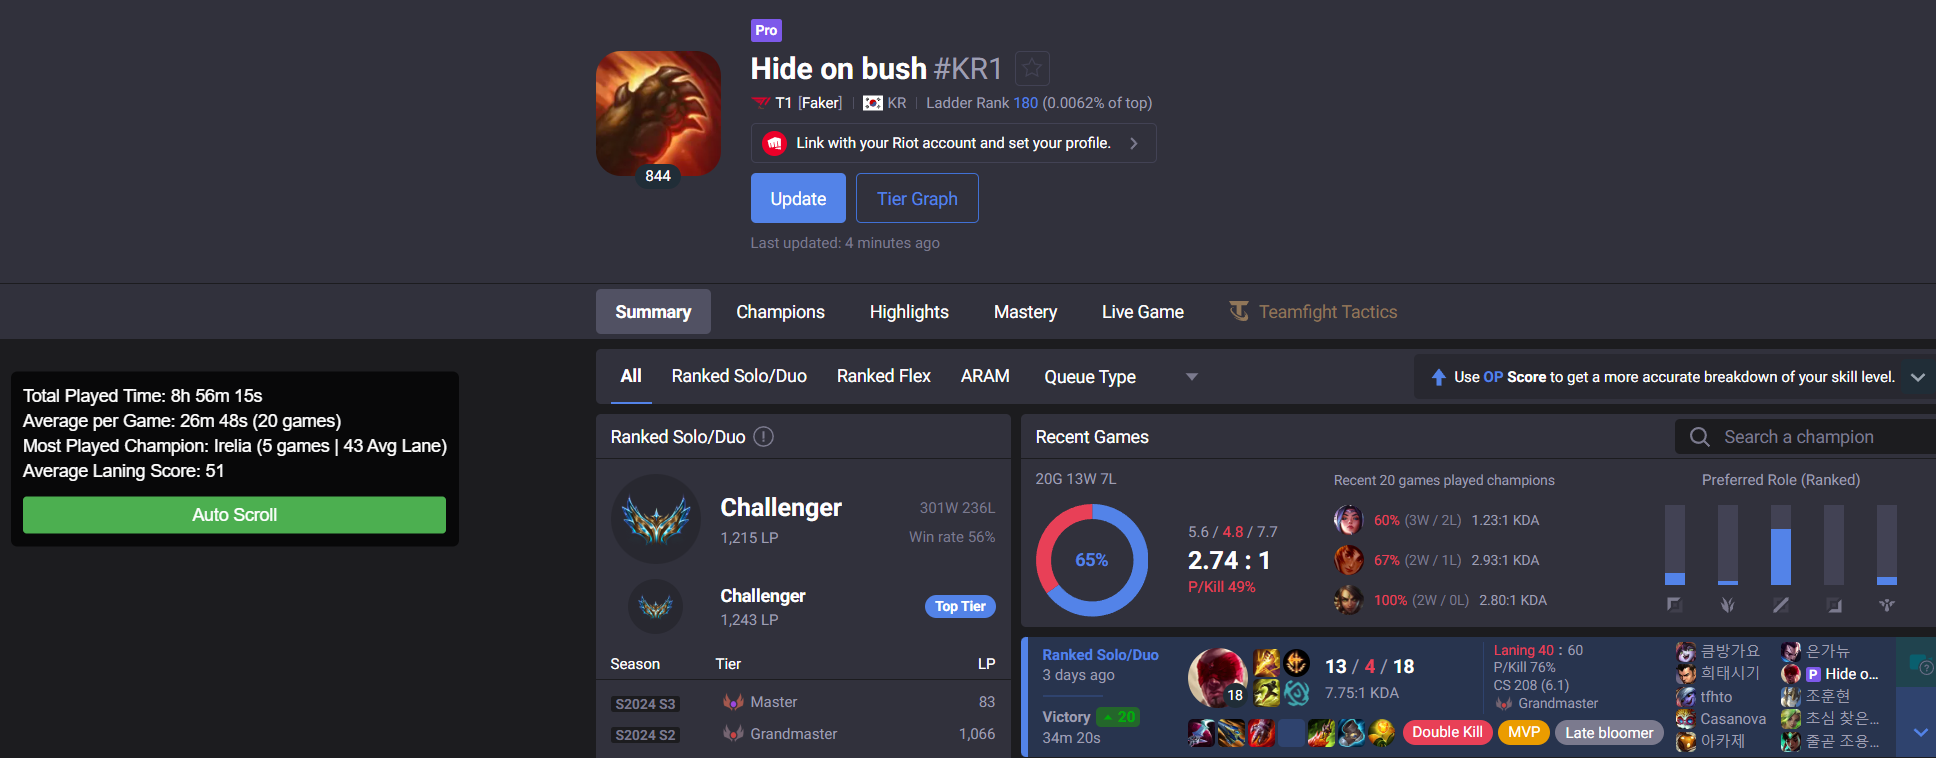
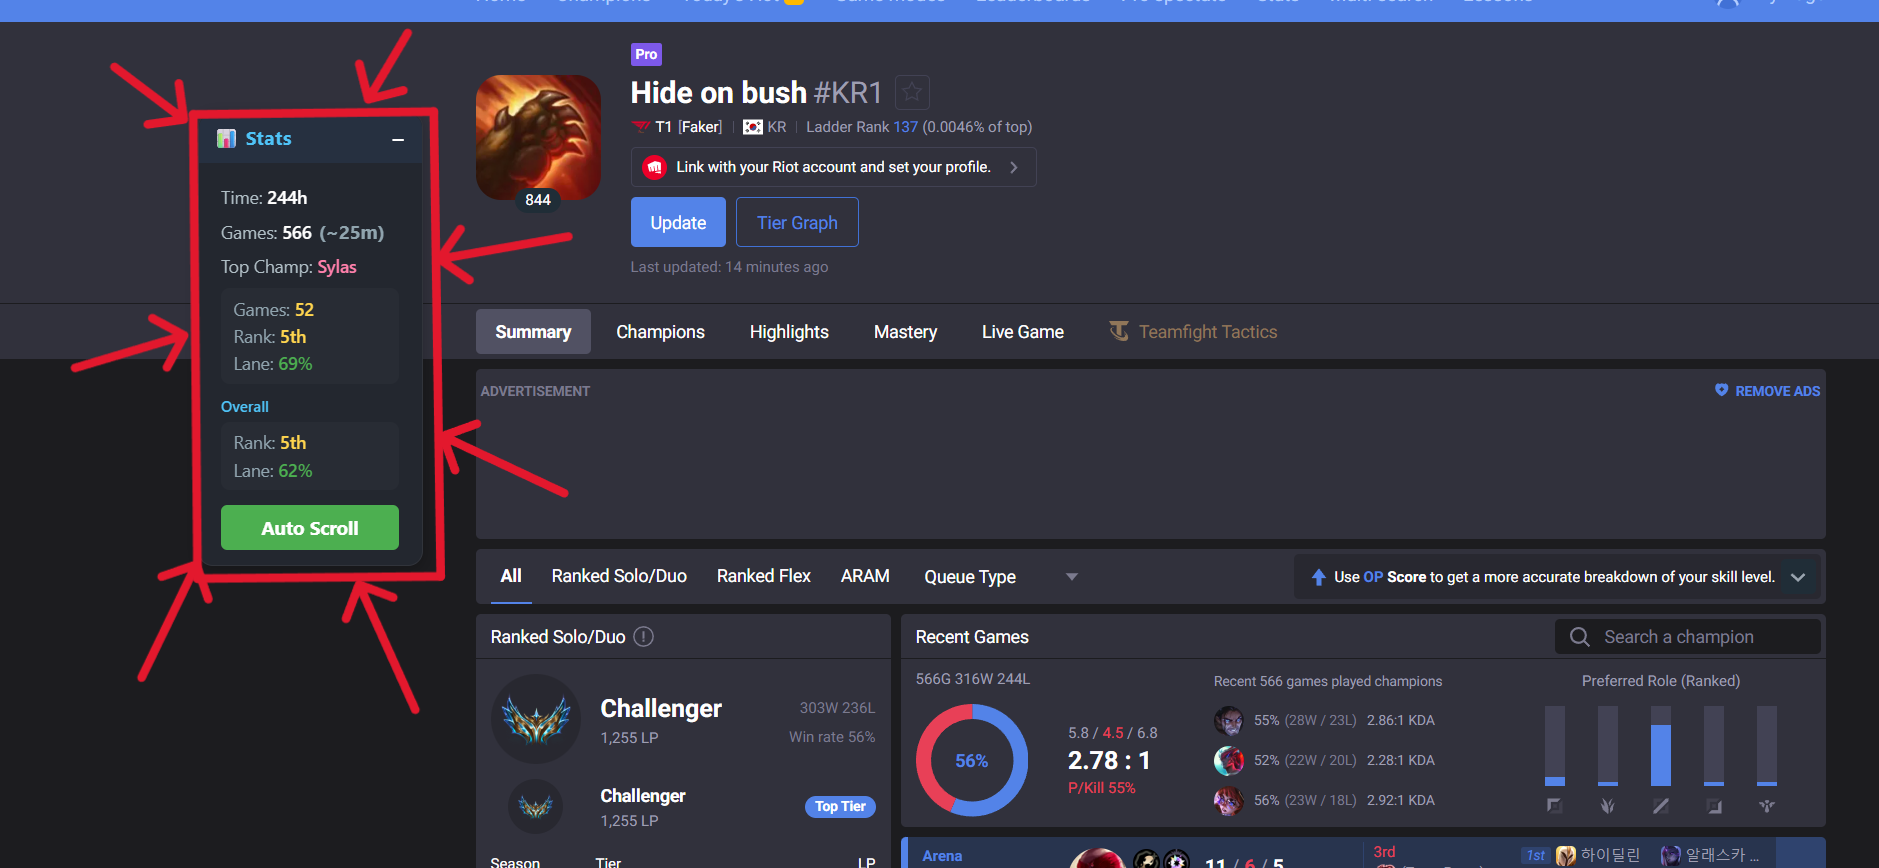
feat: Add draggable, collapsible stats card with toggleable auto-scroll for OP.GG
- Card is now draggable (session-based position, no sticky or localStorage)
- Card is collapsible via header button, state persists for the session
- Auto-scroll is now a toggle button: green for ON, gray for OFF, with clear state indication
- Card position is preserved during the session and does not reset on updates or auto-scroll
- Improved SPA navigation performance by observing only the main content area
- Cleaned up event handling and UI for better UX on all screen sizes
- No changes to stats calculation or auto-scroll logic

Changed region(s): [[0.0, 0.0, 1.0, 1.0]]

diff --git a/opgg/opgg.meta.js b/opgg/opgg.meta.js
@@ -1,9 +1,9 @@
 // ==UserScript==
 // @name         OP.GG Total & Average Game Time Calculator (Robust Selector)
 // @namespace    http://tampermonkey.net/
-// @version      0.8
+// @version      1.2.0
 // @description  Calculates and displays total time, average time, and the most frequent champion played on OP.GG match history.
 // @author       SimronJ
-// @match        https://*.op.gg/lol/summoners*
+// @match        https://*.op.gg/lol*
 // @downloadURL  https://github.com/SimronJ/tempermonkeyScripts/raw/refs/heads/main/opgg/opgg.user.js
 // ==/UserScript==
